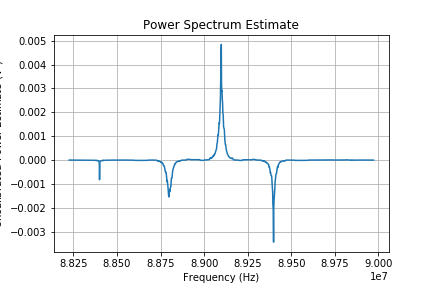
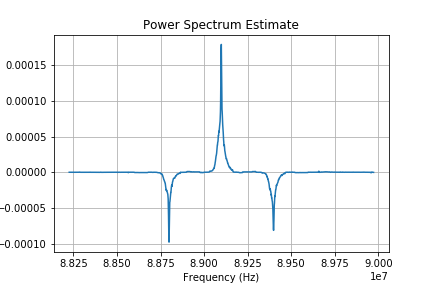
fswitching collection now function has same efficiency fixes applied to spectrum averaging function.

diff --git a/rtlobs/collect.py b/rtlobs/collect.py
@@ -12,25 +12,6 @@ import time
 from rtlsdr import RtlSdr
 
 
-def meas_brightness_temp(num_samp, gain, rate, fc, t_int, T_sys):
-    '''
-    Implement a total-power radiometer. Raw, uncalibrated power values.
-
-    Inputs:
-    num_samp: Number of elements to sample from the SDR IQ timeseries.
-              Greater numbers are more efficient, until limited by device RAM.
-    gain:     Requested SDR gain (dB)
-    rate:     SDR sample rate, intrinsically tied to bandwidth in SDRs (Hz)
-    fc:       Base center frequency (Hz)
-    t_int:    Total integration time (s)
-    T_sys:    System temperature value, used to convert from raw power meas
-              to brightness temp
-
-    Returns:
-    T_tot:   Time-averaged brightness temperature in Kelvin
-    '''
-
-
 def run_total_power_int(num_samp, gain, rate, fc, t_int):
     '''
     Implement a total-power radiometer. Raw, uncalibrated power values.
@@ -253,7 +234,7 @@ def run_spectrum_int( num_samp, nbins, gain, rate, fc, t_int ):
     return freqs, p_avg_db_hz
 
 
-def run_fswitch_int( num_samp, gain, rate, fc, fthrow, t_int, fswitch=10):
+def run_fswitch_int( num_samp, nbins, gain, rate, fc, fthrow, t_int, fswitch=10):
     '''
     Note: Because a significant time penalty is introduced for each retuning,
           a maximum frequency switching rate of 10 Hz is adopted to help 
@@ -263,7 +244,9 @@ def run_fswitch_int( num_samp, gain, rate, fc, fthrow, t_int, fswitch=10):
           to ensure the user gets at least one spectrum taken on each
           frequency of interest.
     Inputs:
-    num_samp:     Number of elements to sample from the SDR IQ timeseries: powers of 2 are most efficient
+    num_samp: Number of elements to sample from the SDR IQ timeseries: powers of 2 are most efficient
+    nbins:    Number of frequency bins in the resulting power spectrum; powers
+              of 2 are most efficient, and smaller numbers are faster on CPU.
     gain:     Requested SDR gain (dB)
     rate:     SDR sample rate, intrinsically tied to bandwidth in SDRs (Hz)
     fc:       Base center frequency (Hz)
@@ -313,10 +296,11 @@ def run_fswitch_int( num_samp, gain, rate, fc, fthrow, t_int, fswitch=10):
         print('  => num dwells total: {}'.format(num_dwells))
 
         # Set up arrays to store power spectrum calculated from I-Q samples
-        freqs_on = np.zeros(num_samp)
-        freqs_off = np.zeros(num_samp)
-        p_xx_on = np.zeros(num_samp)
-        p_xx_off = np.zeros(num_samp)
+        
+        freqs_on = np.zeros(nbins)
+        freqs_off = np.zeros(nbins)
+        p_xx_on = np.zeros(nbins)
+        p_xx_off = np.zeros(nbins)
         cnt = 0
 
         # Set the baseline time
@@ -335,10 +319,10 @@ def run_fswitch_int( num_samp, gain, rate, fc, fthrow, t_int, fswitch=10):
                 iq = sdr.read_samples(num_samp)
 
                 if tick:
-                    freqs_on, p_xx = welch(iq, fs=rate, nperseg=num_samp, noverlap=0, scaling='spectrum', detrend=False, return_onesided=False)
+                    freqs_on, p_xx = welch(iq, fs=rate, nperseg=nbins, noverlap=0, scaling='spectrum', detrend=False, return_onesided=False)
                     p_xx_on += p_xx
                 else:
-                    freqs_off, p_xx = welch(iq, fs=rate, nperseg=num_samp, noverlap=0, scaling='spectrum', detrend=False, return_onesided=False)
+                    freqs_off, p_xx = welch(iq, fs=rate, nperseg=nbins, noverlap=0, scaling='spectrum', detrend=False, return_onesided=False)
                     p_xx_off += p_xx
                 cnt += 1
         
